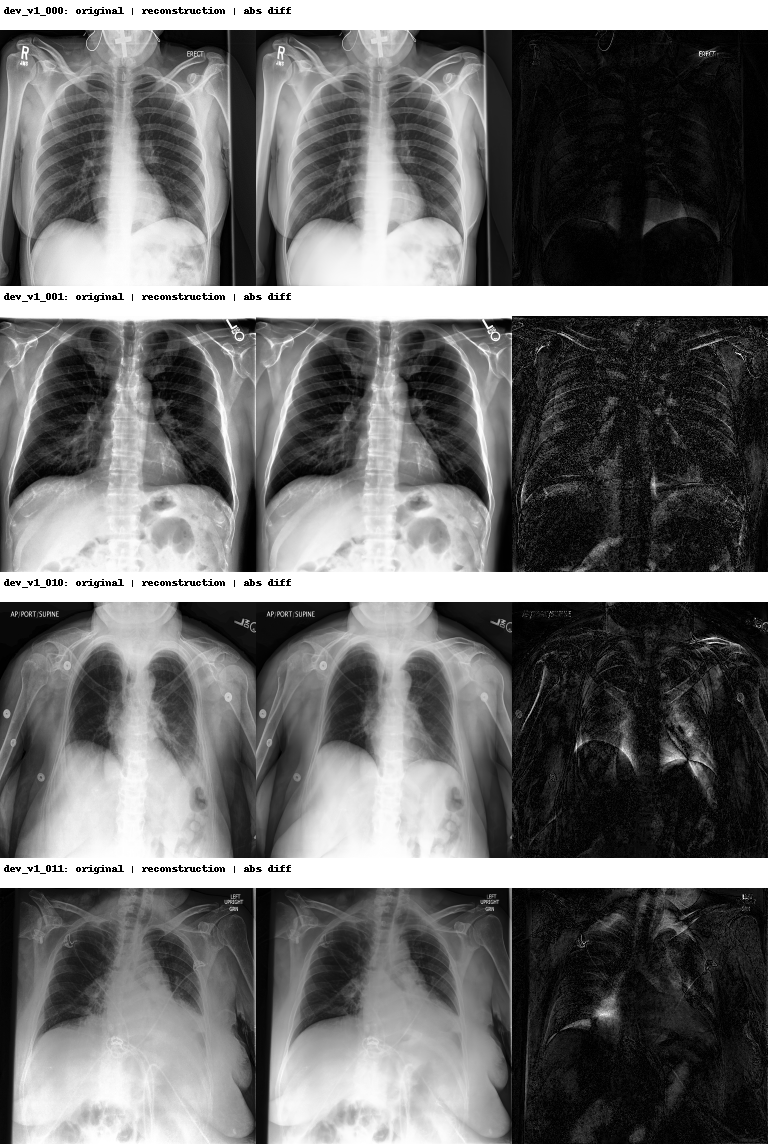
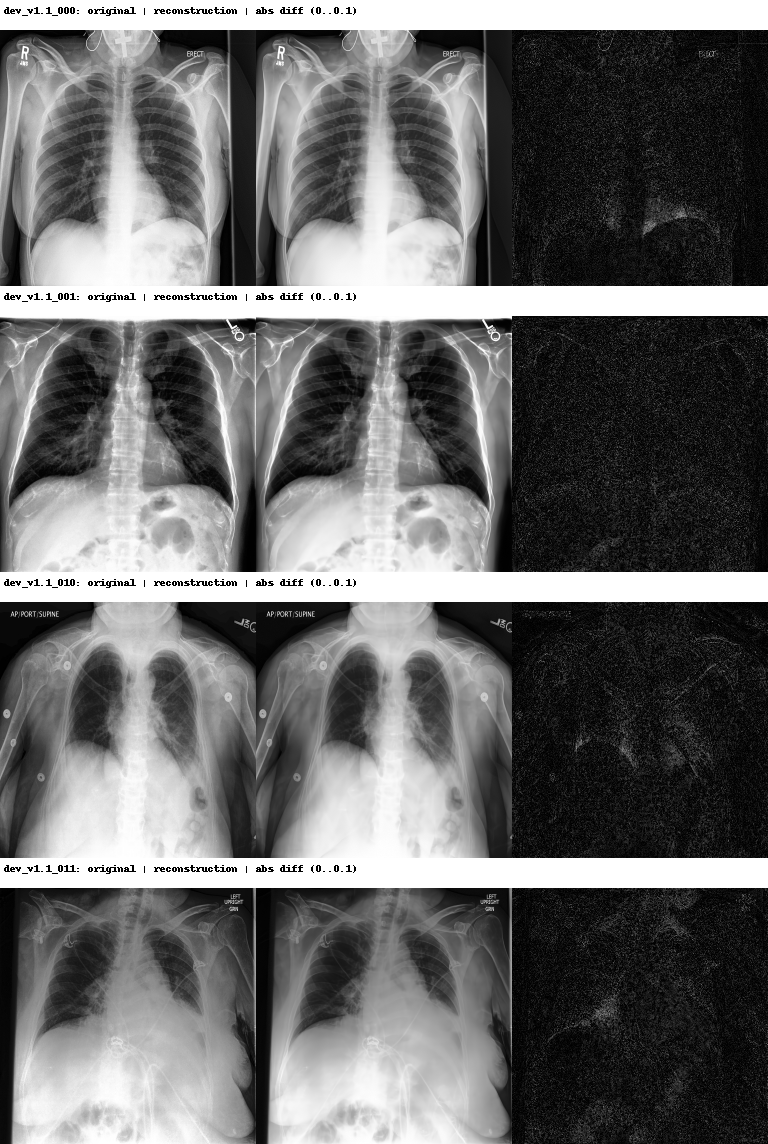
fix(E1): align legacy DDIM and complete metrics
- 類型: correctness/spec/evidence
- 任務依據: WORKFLOW E1.2, E1.4 and user decisions AF-011/AF-012
- 變更檔案: DDIM runner, GPU integration test, benchmark/smoke outputs, protocol documents
- 驗證結果: integration 1 passed bit-exact; E1.2/E1.4 real run validators valid; four smoke rows finite with repeat MaxAbs=0

Refs: AF-001 AF-002 AF-003 AF-011 AF-012

diff --git a/scripts/e1_ddim_runner.py b/scripts/e1_ddim_runner.py
@@ -11,13 +11,19 @@ import json
 import math
 import sys
 import time
+import os
+import platform
+import subprocess
+from datetime import datetime, timezone
 import types
 from pathlib import Path
 
 import numpy as np
 import torch
 import cv2
+import PIL
 from PIL import Image, ImageDraw
+from skimage.metrics import structural_similarity
 
 
 MODEL_CONFIG = {
@@ -139,7 +145,104 @@ def one_cycle(diffusion, model_fn, x: torch.Tensor, timestep: int, guidance: flo
     return latent, reconstruction
 
 
+def git_value(*arguments: str) -> str:
+    result = subprocess.run(["git", *arguments], text=True, capture_output=True, check=False)
+    return result.stdout.strip() if result.returncode == 0 else "unavailable"
+
+
+def write_run_artifacts(
+    task_id: str,
+    args,
+    split_rows: list[dict[str, str]],
+    per_sample_rows: list[dict[str, object]],
+    numeric_fields: list[str],
+    started_at: str,
+) -> Path:
+    """Write and immediately validate a complete WORKFLOW 3.2 run directory."""
+    from artifact_schema import validate_run
+
+    config = {
+        key: str(value) if isinstance(value, Path) else value
+        for key, value in vars(args).items()
+    }
+    config["model_config"] = MODEL_CONFIG
+    config_bytes = (json.dumps(config, sort_keys=True, separators=(",", ":")) + "\n").encode()
+    config_hash = hashlib.sha256(config_bytes).hexdigest()
+    timestamp = datetime.now(timezone.utc).strftime("%Y%m%dT%H%M%SZ")
+    run_id = f"{task_id}_{timestamp}_{config_hash[:8]}"
+    run_dir = args.artifacts_root / task_id / run_id
+    run_dir.mkdir(parents=True, exist_ok=False)
+    (run_dir / "config.json").write_bytes(config_bytes)
+    with (run_dir / "per_sample.csv").open("w", newline="", encoding="utf-8") as handle:
+        writer = csv.DictWriter(handle, fieldnames=list(per_sample_rows[0]), lineterminator="\n")
+        writer.writeheader()
+        writer.writerows(per_sample_rows)
+    numeric_means = {
+        field: float(np.mean([float(row[field]) for row in per_sample_rows]))
+        for field in numeric_fields
+    }
+    summary = {
+        "schema_version": 2,
+        "task_id": task_id,
+        "run_id": run_id,
+        "sample_count": len(per_sample_rows),
+        "numeric_means": numeric_means,
+    }
+    (run_dir / "summary.json").write_text(
+        json.dumps(summary, indent=2) + "\n", encoding="utf-8"
+    )
+    finished_at = datetime.now(timezone.utc).isoformat()
+    manifest = {
+        "schema_version": 2,
+        "task_id": task_id,
+        "run_id": run_id,
+        "config_hash": config_hash,
+        "git_commit": git_value("rev-parse", "HEAD"),
+        "git_dirty": bool(git_value("status", "--porcelain=v1")),
+        "dataset_split_hash": split_rows[0]["split_sha256"],
+        "checkpoint_hash": sha256_file(args.checkpoint),
+        "expected_samples": len(per_sample_rows),
+        "sample_ids": [str(row["sample_id"]) for row in per_sample_rows],
+        "command": " ".join(sys.argv),
+        "started_at": started_at,
+        "finished_at": finished_at,
+        "exit_code": 0,
+        "script_sha256": sha256_file(Path(__file__)),
+        "python": sys.version.replace("\n", " "),
+        "pytorch": torch.__version__,
+        "cuda": torch.version.cuda or "none",
+        "gpu": torch.cuda.get_device_name(0) if torch.cuda.is_available() else "none",
+        "dtype": "float32",
+        "seed_list": [int(row.get("seed", args.seed)) for row in per_sample_rows],
+        "steps": args.noise_level,
+        "packages": {
+            "numpy": np.__version__, "opencv": cv2.__version__,
+            "pillow": PIL.__version__,
+        },
+        "scheme": "legacy_ddim_P",
+        "rounds": 0,
+        "nonce_mode": "none",
+        "container_version": "none",
+        "numeric_fields": numeric_fields,
+        "failure_reason": "",
+        "skip_reason": "",
+    }
+    (run_dir / "manifest.json").write_text(
+        json.dumps(manifest, indent=2) + "\n", encoding="utf-8"
+    )
+    (run_dir / "stdout.log").write_text(
+        f"{task_id} completed {len(per_sample_rows)} rows\n", encoding="utf-8"
+    )
+    (run_dir / "stderr.log").write_text("", encoding="utf-8")
+    validation = validate_run(run_dir)
+    if not validation["valid"]:
+        raise RuntimeError(f"invalid run artifacts: {validation['errors']}")
+    print(f"validated run artifacts: {run_dir}")
+    return run_dir
+
+
 def run_benchmark(args, rows, diffusion, model_fn, device) -> None:
+    started_at = datetime.now(timezone.utc).isoformat()
     tensors = [preprocess(Path(row["local_path"]))[0] for row in rows[:8]]
     results = []
     for batch_size in (1, 4, 8):
@@ -194,6 +297,31 @@ def run_benchmark(args, rows, diffusion, model_fn, device) -> None:
     }
     args.benchmark_output.parent.mkdir(parents=True, exist_ok=True)
     args.benchmark_output.write_text(json.dumps(payload, indent=2) + "\n", encoding="utf-8")
+    artifact_rows = [dict(entry, sample_id=f"batch_{entry['batch_size']}") for entry in results]
+    numeric = [
+        "seconds_per_reverse_reconstruct_cycle_mean",
+        "seconds_per_reverse_reconstruct_cycle_std",
+        "estimated_seconds_noise_level_500",
+        "peak_vram_bytes",
+    ]
+    write_run_artifacts("E1.2", args, rows, artifact_rows, numeric, started_at)
+
+
+def pair_metrics(prefix: str, a: torch.Tensor, b: torch.Tensor) -> dict[str, float]:
+    x = a.detach().float().cpu().numpy().ravel()
+    y = b.detach().float().cpu().numpy().ravel()
+    error = y - x
+    mse = float(np.mean(error * error))
+    denom = float(np.linalg.norm(x) * np.linalg.norm(y))
+    return {
+        f"{prefix}_cosine": float(np.dot(x, y) / denom) if denom else 0.0,
+        f"{prefix}_mse": mse,
+        f"{prefix}_rmse": math.sqrt(mse),
+        f"{prefix}_max_abs": float(np.max(np.abs(error))),
+        f"{prefix}_float32_bit_exact_rate": float(
+            np.mean(x.view(np.uint32) == y.view(np.uint32))
+        ),
+    }
 
 
 def metrics(original: torch.Tensor, reconstruction: torch.Tensor, latent: torch.Tensor) -> dict[str, float]:
@@ -203,13 +331,18 @@ def metrics(original: torch.Tensor, reconstruction: torch.Tensor, latent: torch.
     error = y - x
     mse = float(np.mean(error * error))
     denom = float(np.linalg.norm(x) * np.linalg.norm(y))
+    x8 = np.rint(np.clip(x, 0, 1) * 255).astype(np.uint8)
+    y8 = np.rint(np.clip(y, 0, 1) * 255).astype(np.uint8)
     return {
         "image_mse": mse,
         "image_rmse": math.sqrt(mse),
         "image_mae": float(np.mean(np.abs(error))),
         "image_max_abs": float(np.max(np.abs(error))),
-        "image_psnr_db": float("inf") if mse == 0 else -10.0 * math.log10(mse),
-        "image_cosine": float(np.dot(x, y) / denom) if denom else float("nan"),
+        "image_psnr_db": float(-10.0 * math.log10(max(mse, np.finfo(float).tiny))),
+        "image_ssim": float(structural_similarity(x.reshape(256, 256), y.reshape(256, 256), data_range=1.0)),
+        "image_cosine": float(np.dot(x, y) / denom) if denom else 0.0,
+        "image_uint8_pixel_equality_rate": float(np.mean(x8 == y8)),
+        "image_float32_bit_exact_rate": float(np.mean(x.view(np.uint32) == y.view(np.uint32))),
         "latent_l2": float(np.linalg.norm(z)),
         "latent_mean": float(np.mean(z)),
         "latent_std": float(np.std(z)),
@@ -218,6 +351,7 @@ def metrics(original: torch.Tensor, reconstruction: torch.Tensor, latent: torch.
 
 @torch.inference_mode()
 def invert_reconstruct(diffusion, model_fn, x0, noise_level, guidance, seed):
+    """Call the legacy progressive sampler without reimplementing its timestep schedule."""
     torch.manual_seed(seed)
     if x0.device.type == "cuda":
         torch.cuda.manual_seed_all(seed)
@@ -226,26 +360,21 @@ def invert_reconstruct(diffusion, model_fn, x0, noise_level, guidance, seed):
         "p_uncond": -1,
         "clf_free": True,
     }
-    reverse_kwargs = dict(kwargs)
-    reverse_kwargs["null"] = True
     t0 = torch.zeros(x0.shape[0], device=x0.device, dtype=torch.long)
-    latent = diffusion.q_sample(x_start=x0, t=t0, noise=torch.randn_like(x0))
-    for timestep in range(noise_level - 1):
-        t = torch.full((x0.shape[0],), timestep, device=x0.device, dtype=torch.long)
-        latent = diffusion.ddim_reverse_sample(
-            model_fn, latent, t, clip_denoised=True, model_kwargs=reverse_kwargs
-        )["sample"]
-    reconstruction = latent
-    for timestep in reversed(range(noise_level - 1)):
-        t = torch.full((x0.shape[0],), timestep, device=x0.device, dtype=torch.long)
-        reconstruction = diffusion.ddim_sample(
-            model_fn,
-            reconstruction,
-            t,
-            clip_denoised=True,
-            model_kwargs=kwargs,
-            guidance_scale=guidance,
-        )["sample"]
+    x_noisy = diffusion.q_sample(x_start=x0, t=t0, noise=torch.randn_like(x0))
+    latent = None
+    reconstruction = None
+    inversion_outputs = noise_level - 1
+    for index, out in enumerate(diffusion.ddim_sample_loop_known_progressive(
+        model_fn, tuple(x0.shape), time=noise_level, noise=x_noisy,
+        clip_denoised=True, model_kwargs=kwargs, device=x0.device,
+        guidance_scale=guidance,
+    )):
+        reconstruction = out["sample"]
+        if index == inversion_outputs - 1:
+            latent = reconstruction.clone()
+    if latent is None or reconstruction is None:
+        raise RuntimeError("legacy DDIM sampler returned no complete cycle")
     return latent, reconstruction
 
 
@@ -264,16 +393,18 @@ def save_contact_sheet(items, output: Path) -> None:
         y0 = row_index * 286
         orig = normalize_u8(original)
         rec = normalize_u8(reconstruction)
-        diff = normalize_u8(np.abs(reconstruction - original))
+        # Fixed 0..0.1 scale makes difference intensity comparable across rows.
+        diff = np.rint(np.clip(np.abs(reconstruction - original) / 0.1, 0, 1) * 255).astype(np.uint8)
         for column, array in enumerate((orig, rec, diff)):
             panel = Image.fromarray(array, mode="L").convert("RGB")
             canvas.paste(panel, (column * 256, y0 + 30))
-        draw.text((4, y0 + 5), f"{sample_id}: original | reconstruction | abs diff", fill="black")
+        draw.text((4, y0 + 5), f"{sample_id}: original | reconstruction | abs diff (0..0.1)", fill="black")
     output.parent.mkdir(parents=True, exist_ok=True)
     canvas.save(output)
 
 
 def run_smoke(args, rows, diffusion, model_fn, device) -> None:
+    started_at = datetime.now(timezone.utc).isoformat()
     chosen = [rows[0], rows[1], rows[10], rows[11]]
     output_rows = []
     contact_items = []
@@ -283,18 +414,21 @@ def run_smoke(args, rows, diffusion, model_fn, device) -> None:
         if device.type == "cuda":
             torch.cuda.reset_peak_memory_stats(device)
         start = time.perf_counter()
+        seed = args.seed + index
         latent, reconstruction = invert_reconstruct(
-            diffusion,
-            model_fn,
-            x0,
-            args.noise_level,
-            args.guidance_scale,
-            args.seed + index,
+            diffusion, model_fn, x0, args.noise_level, args.guidance_scale, seed
+        )
+        latent_repeat, _ = invert_reconstruct(
+            diffusion, model_fn, x0, args.noise_level, args.guidance_scale, seed
+        )
+        reinverted_latent, _ = invert_reconstruct(
+            diffusion, model_fn, reconstruction, args.noise_level, args.guidance_scale, seed
         )
         if device.type == "cuda":
             torch.cuda.synchronize(device)
         elapsed = time.perf_counter() - start
-        if not torch.isfinite(latent).all() or not torch.isfinite(reconstruction).all():
+        tensors = (latent, reconstruction, latent_repeat, reinverted_latent)
+        if not all(torch.isfinite(value).all() for value in tensors):
             raise RuntimeError(f"NaN/Inf detected for {row['sample_id']}")
         record = {
             "schema_version": 1,
@@ -303,7 +437,7 @@ def run_smoke(args, rows, diffusion, model_fn, device) -> None:
             "label": row["label"],
             "split_sha256": row["split_sha256"],
             "checkpoint_sha256": sha256_file(args.checkpoint),
-            "seed": args.seed + index,
+            "seed": seed,
             "noise_level": args.noise_level,
             "guidance_scale": args.guidance_scale,
             "runtime_seconds": elapsed,
@@ -311,6 +445,10 @@ def run_smoke(args, rows, diffusion, model_fn, device) -> None:
             "finite": True,
         }
         record.update(metrics(x0, reconstruction, latent))
+        record.update(pair_metrics("latent_repeat", latent, latent_repeat))
+        record.update(pair_metrics("latent_reinversion", latent, reinverted_latent))
+        if not all(math.isfinite(float(value)) for key, value in record.items() if key.startswith(("image_", "latent_"))):
+            raise RuntimeError(f"non-finite metric for {row['sample_id']}")
         output_rows.append(record)
         rec_array = reconstruction[0, 0].detach().float().cpu().numpy()
         contact_items.append((row["sample_id"], original_array, rec_array))
@@ -321,15 +459,21 @@ def run_smoke(args, rows, diffusion, model_fn, device) -> None:
         writer.writeheader()
         writer.writerows(output_rows)
     save_contact_sheet(contact_items, args.contact_sheet)
+    numeric = [
+        key for key, value in output_rows[0].items()
+        if key.startswith(("image_", "latent_")) or key in ("runtime_seconds", "peak_vram_bytes")
+        if isinstance(value, (int, float)) and not isinstance(value, bool)
+    ]
+    write_run_artifacts("E1.4", args, rows, output_rows, numeric, started_at)
 
 
 def main() -> None:
     parser = argparse.ArgumentParser()
     parser.add_argument("mode", choices=("benchmark", "smoke"))
-    parser.add_argument("--split", type=Path, default=Path("splits/dev_v1.csv"))
+    parser.add_argument("--split", type=Path, default=Path("splits/dev_v1.1.csv"))
     parser.add_argument("--checkpoint", type=Path, required=True)
     parser.add_argument("--source-root", type=Path, default=Path("past/SourceCode"))
-    parser.add_argument("--guidance-scale", type=float, default=4.0)
+    parser.add_argument("--guidance-scale", type=float, default=0.0)
     parser.add_argument("--noise-level", type=int, default=500)
     parser.add_argument("--seed", type=int, default=1911)
     parser.add_argument("--benchmark-timestep", type=int, default=250)
@@ -337,6 +481,7 @@ def main() -> None:
     parser.add_argument("--benchmark-output", type=Path, default=Path("results/E1.2_benchmark.json"))
     parser.add_argument("--smoke-output", type=Path, default=Path("results/E1.4_ddim_smoke.csv"))
     parser.add_argument("--contact-sheet", type=Path, default=Path("image/E1.4_ddim_smoke_contact_sheet.png"))
+    parser.add_argument("--artifacts-root", type=Path, default=Path("artifacts/runs"))
     args = parser.parse_args()
     if not torch.cuda.is_available():
         raise SystemExit("CUDA is required for E1.2/E1.4")

diff --git a/tests/integration/test_legacy_ddim_equivalence.py b/tests/integration/test_legacy_ddim_equivalence.py
@@ -1,0 +1,35 @@
+from __future__ import annotations
+
+import csv
+from pathlib import Path
+
+import pytest
+import torch
+
+from scripts.e1_ddim_runner import create_runtime, invert_reconstruct, preprocess
+
+ROOT = Path(__file__).resolve().parents[2]
+SOURCE = ROOT / "past/SourceCode"
+CHECKPOINT = SOURCE / "results/Model/cfg_chexpert_p_uncond_0.1_v1_2025_05_08/modelchexpert050000.pt"
+
+
+@pytest.mark.skipif(not torch.cuda.is_available() or not CHECKPOINT.is_file(), reason="requires CUDA and legacy checkpoint")
+def test_wrapper_is_bit_exact_with_legacy_progressive_sampler() -> None:
+    _, diffusion, model_fn = create_runtime(SOURCE, CHECKPOINT, torch.device("cuda:0"))
+    row = next(csv.DictReader((ROOT / "splits/dev_v1.1.csv").open(encoding="utf-8")))
+    x0 = preprocess(ROOT / row["local_path"])[0].unsqueeze(0).cuda()
+    seed, time, guidance = 1911, 500, 0.0
+
+    torch.manual_seed(seed)
+    torch.cuda.manual_seed_all(seed)
+    kwargs = {"y": torch.zeros(1, device=x0.device, dtype=torch.int64), "p_uncond": -1, "clf_free": True}
+    t0 = torch.zeros(1, device=x0.device, dtype=torch.long)
+    x_noisy = diffusion.q_sample(x_start=x0, t=t0, noise=torch.randn_like(x0))
+    outputs = [out["sample"] for out in diffusion.ddim_sample_loop_known_progressive(
+        model_fn, tuple(x0.shape), time=time, noise=x_noisy, clip_denoised=True,
+        model_kwargs=kwargs, device=x0.device, guidance_scale=guidance,
+    )]
+    expected_z, expected_x = outputs[time - 2], outputs[-1]
+    observed_z, observed_x = invert_reconstruct(diffusion, model_fn, x0, time, guidance, seed)
+    assert torch.equal(observed_z, expected_z)
+    assert torch.equal(observed_x, expected_x)

diff --git a/WORKFLOW.md b/WORKFLOW.md
@@ -278,8 +278,8 @@ Efficiency：
 | E0.1 | evidence reset | 舊 artifact 標為 historical；現版腳本可重建每個引用數字或將該 claim 撤回 | reports/evidence_reset.md、canonical_preflight.csv |
 | E1.1 | 環境與版本盤點 | 可載入 checkpoint；記錄 Python/PyTorch/CUDA/GPU；無 unexpected keys | artifacts/environment_baseline.txt、model_inventory.csv |
 | E1.2 | 速度與 VRAM benchmark | batch 1/4/8 或可行組合完成；據此決定 formal N | results/E1.2_benchmark.json |
-| E1.3 | 固定 dev split | 20 張、patient-disjoint、全部可讀、清單有 SHA-256 | splits/dev_v1.csv |
-| E1.4 | DDIM smoke | P 路徑 x0→z→xrec 無 NaN/OOM；latent/image 指標完整 | results/E1.4_ddim_smoke.csv、4 張 contact sheet |
+| E1.3 | 固定 dev split | 20 張、patient-disjoint、全部可讀、清單有 SHA-256；hash 不含本機 `local_path` | splits/dev_v1.1.csv |
+| E1.4 | DDIM smoke | P 路徑 x0→z→xrec 無 NaN/OOM；latent/image 指標完整；主線 `guidance_scale=0` | results/E1.4_ddim_smoke.csv、4 張 contact sheet |
 | E1.5 | artifact validator | synthetic run 可產生 manifest、per-sample CSV、summary | tests/unit/test_artifact_schema.py |
 
 G0：E0.1 與 E1.1–E1.5 全過。
@@ -290,9 +290,11 @@ G0：E0.1 與 E1.1–E1.5 全過。
 
 大目標：建立可被後續所有攻擊共用的 S0/S1 與 latent cache。
 
+協定裁決：P／S0／S1／S2a／S2 的 security、correctness、reversibility 主表共用 `guidance_scale=0`；guidance=4 的病灶健康化結果若執行，須另列附表。
+
 | ID | 子任務 | 通過條件 | 交付 |
 |---|---|---|---|
-| E2.1 | formal split | patient-disjoint；最低 200、目標 500–1,000；hash 凍結 | splits/security_v1.csv |
+| E2.1 | formal split | 採 AF-012(a)：重現 `sample_n=16000, random_state=1911` 後排除入選病人的全部影像；從剩餘 train 病人固定隨機抽樣；patient-disjoint；最低 200、目標 500–1,000；hash 凍結 | splits/security_v1.csv、splits/security_v1_manifest.json |
 | E2.2 | S0/S1 wrapper | 對 Ki@13579／seed 42 與前作輸出一致 | tests/test_legacy_repro.py、results/E2.2.json |
 | E2.3 | latent cache | shape 正確、無 NaN/Inf；抽樣重算 MaxAbs ≤ 1e-5 | cache metadata、results/E2.3_DONE.json |
 | E2.4 | metric semantics | 證明 cosine=1 不等於 equality；x0 vs xrec 與前作舊定義分開 | reports/metric_semantics.md |
